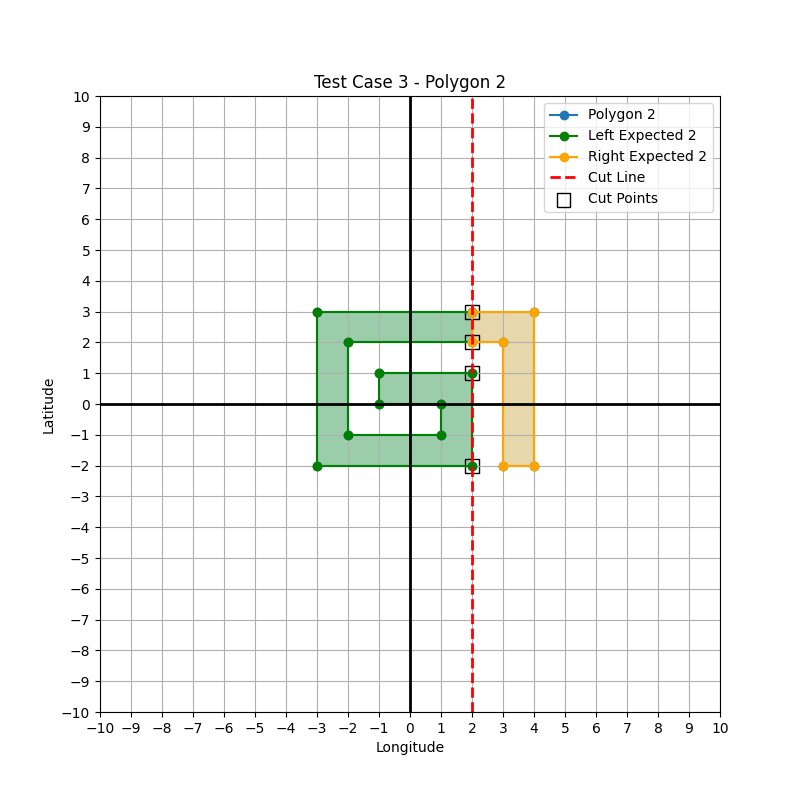
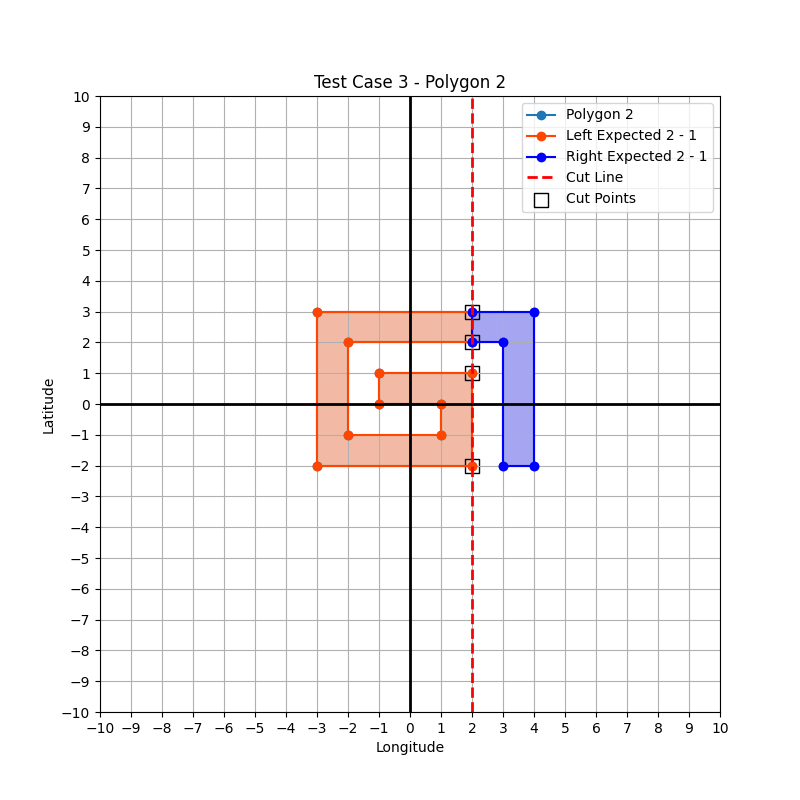
pushed polygon test cases pictures for better understanding + correct issue on clockwise test

Changed region(s): [[0.375, 0.375, 0.6875, 0.5938], [0.6562, 0.125, 0.875, 0.2812]]

diff --git a/shared/src/commonTest/python/polygon_plotter.py b/shared/src/commonTest/python/polygon_plotter.py
@@ -1,6 +1,5 @@
 import matplotlib.pyplot as plt
 
-# Function to plot a polygon test case with all required elements
 def plot_polygon(test_case_number, polygon_number, polygon, left_expected, right_expected, cut_line, cut_points, composed=False):
     plt.figure(figsize=(8, 8))
 
@@ -8,21 +7,27 @@ def plot_polygon(test_case_number, polygon_number, polygon, left_expected, right
     latitudes = [pos[0] for pos in polygon]
     longitudes = [pos[1] for pos in polygon]
     plt.plot(longitudes, latitudes, marker='o', label=f'Polygon {polygon_number}')
-    plt.fill(longitudes, latitudes, 'lightblue', alpha=0.4)
+    plt.fill(longitudes, latitudes, 'lightgray', alpha=0.4)
 
-    # Plot the left expected polygon
-    for left_polygon in left_expected:
+    # Define more distinct color maps for left and right polygons
+    left_colors = ['#FF4500', '#FFA500', '#FFD700']  # Bright red, orange, and gold for left polygons
+    right_colors = ['#0000FF', '#00008B', '#00FFFF']  # Strong blue, dark blue, and cyan for right polygons
+
+    # Plot the left expected polygons with distinct warm colors
+    for i, left_polygon in enumerate(left_expected):
         latitudes_left = [pos[0] for pos in left_polygon]
         longitudes_left = [pos[1] for pos in left_polygon]
-        plt.plot(longitudes_left, latitudes_left, marker='o', label=f'Left Expected {polygon_number}', color='green')
-        plt.fill(longitudes_left, latitudes_left, 'green', alpha=0.3)
+        color = left_colors[i % len(left_colors)]  # Cycle through warm shades
+        plt.plot(longitudes_left, latitudes_left, marker='o', label=f'Left Expected {polygon_number} - {i+1}', color=color)
+        plt.fill(longitudes_left, latitudes_left, color, alpha=0.3)
 
-    # Plot the right expected polygon
-    for right_polygon in right_expected:
+    # Plot the right expected polygons with distinct cool colors
+    for i, right_polygon in enumerate(right_expected):
         latitudes_right = [pos[0] for pos in right_polygon]
         longitudes_right = [pos[1] for pos in right_polygon]
-        plt.plot(longitudes_right, latitudes_right, marker='o', label=f'Right Expected {polygon_number}', color='orange')
-        plt.fill(longitudes_right, latitudes_right, 'orange', alpha=0.3)
+        color = right_colors[i % len(right_colors)]  # Cycle through cool shades
+        plt.plot(longitudes_right, latitudes_right, marker='o', label=f'Right Expected {polygon_number} - {i+1}', color=color)
+        plt.fill(longitudes_right, latitudes_right, color, alpha=0.3)
 
     # Plot the cut line
     if composed:
@@ -52,25 +57,4 @@ def plot_polygon(test_case_number, polygon_number, polygon, left_expected, right
 
     # Show the plot
     plt.show()
-
-
-# Test case 1 for polygon1
-polygon1 = [(-12.0, -6.0), (-13.0, -3.0), (-11.0, -3.0), (-9.0, -3.0), (-8.0, -6.0), (-7.0, -3.0), (-6.0, -6.0),
-            (-5.0, -3.0), (-3.0, 0.0), (-2.0, -3.0), (-1.0, 2.0), (1.0, 2.0), (3.0, -8.0), (5.0, -8.0), (7.0, -7.0),
-            (8.0, -5.0), (9.0, -1.0), (9.0, 2.0), (14.0, 2.0), (14.0, -5.0), (12.0, -5.0), (12.0, -1.0), (10.0, 1.0),
-            (10.0, -7.0), (10.0, -9.0), (-11.0, -9.0)]
-
-left_expected1 = [[(-12.0, -6.0), (-13.0, -3.0), (-9.0, -3.0), (-8.0, -6.0), (-7.0, -3.0), (-6.0, -6.0),
-                   (-5.0, -3.0), (2.0, -3.0), (3.0, -8.0), (5.0, -8.0), (7.0, -7.0), (8.0, -5.0), (8.5, -3.0),
-                   (10.0, -3.0), (10.0, -7.0), (10.0, -9.0), (-11.0, -9.0), (-12.0, -6.0)]]
-
-right_expected1 = [[(-5.0, -3.0), (-3.0, 0.0), (-2.0, -3.0), (-1.0, 2.0), (1.0, 2.0), (2.0, -3.0), (-5.0, -3.0)],
-                   [(8.5, -3.0), (9.0, -1.0), (9.0, 2.0), (14.0, 2.0), (14.0, -3.0), (12.0, -3.0), (12.0, -1.0),
-                    (10.0, 1.0), (10.0, -3.0), (8.5, -3.0)]]
-
-cut_line1 = -3.0
-cut_points1 = [(-13.0, -3.0), (-9.0, -3.0), (-7.0, -3.0), (-5.0, -3.0), (2.0, -3.0), (8.5, -3.0), (10.0, -3.0)]
-
-# Plot test case 1
-plot_polygon(1, 1, polygon1, left_expected1, right_expected1, cut_line1, cut_points1, composed=False)
 
